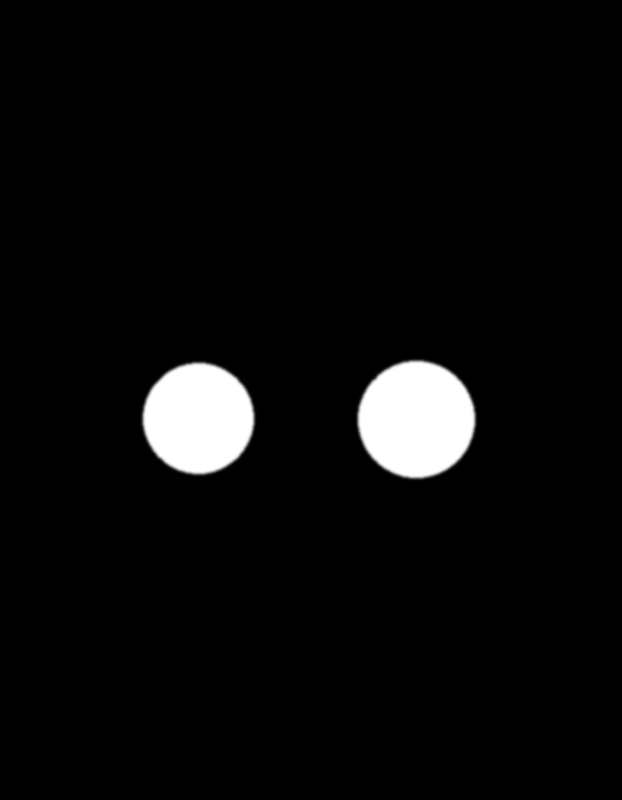
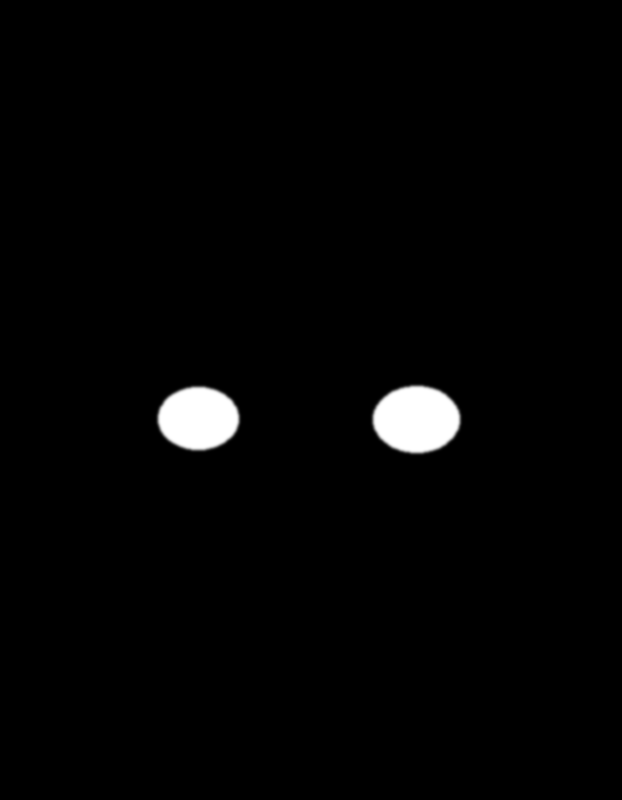
Refined eye detection mask

Changed region(s): [[0.5498, 0.4375, 0.7637, 0.625], [0.2138, 0.4375, 0.4277, 0.5938]]

diff --git a/remove_skin_reflections.py b/remove_skin_reflections.py
@@ -2,9 +2,116 @@ import cv2
 import numpy as np
 from scipy.ndimage import gaussian_filter
 
+def detect_eye_region_precise(image, eye_x, eye_y, eye_w, eye_h):
+    """
+    Precisely detect the actual eye area (iris, pupil, sclera) within a detected eye bounding box.
+    Returns a refined mask for just the eye structure.
+    """
+    # Extract the eye region
+    eye_roi = image[eye_y:eye_y+eye_h, eye_x:eye_x+eye_w]
+    
+    if eye_roi.size == 0:
+        return np.zeros((eye_h, eye_w), dtype=np.uint8)
+    
+    # Convert to grayscale and HSV for analysis
+    eye_gray = cv2.cvtColor(eye_roi, cv2.COLOR_BGR2GRAY)
+    eye_hsv = cv2.cvtColor(eye_roi, cv2.COLOR_BGR2HSV)
+    h, s, v = cv2.split(eye_hsv)
+    
+    # Create refined mask
+    refined_mask = np.zeros((eye_h, eye_w), dtype=np.uint8)
+    
+    # Method 1: Detect dark regions (pupil and iris)
+    # Pupil and iris are typically darker than surrounding skin
+    _, dark_mask = cv2.threshold(eye_gray, 0, 255, cv2.THRESH_BINARY_INV + cv2.THRESH_OTSU)
+    
+    # Method 2: Detect eye whites (sclera) - low saturation, medium-high brightness
+    sclera_mask = ((s < 40) & (v > 100) & (v < 240)).astype(np.uint8) * 255
+    
+    # Method 3: Detect iris region - has some color saturation
+    iris_mask = ((s > 15) & (v > 30) & (v < 200)).astype(np.uint8) * 255
+    
+    # Combine masks: we want dark areas (pupil/iris) OR white areas (sclera)
+    eye_structure = cv2.bitwise_or(dark_mask, sclera_mask)
+    eye_structure = cv2.bitwise_or(eye_structure, iris_mask)
+    
+    # Clean up the mask - remove small noise
+    kernel = cv2.getStructuringElement(cv2.MORPH_ELLIPSE, (3, 3))
+    eye_structure = cv2.morphologyEx(eye_structure, cv2.MORPH_CLOSE, kernel, iterations=2)
+    eye_structure = cv2.morphologyEx(eye_structure, cv2.MORPH_OPEN, kernel, iterations=1)
+    
+    # Find the largest connected component (the actual eye)
+    num_labels, labels, stats, centroids = cv2.connectedComponentsWithStats(eye_structure, connectivity=8)
+    
+    if num_labels > 1:
+        # Get the largest component (excluding background)
+        largest_component = 1 + np.argmax(stats[1:, cv2.CC_STAT_AREA])
+        refined_mask = (labels == largest_component).astype(np.uint8) * 255
+    else:
+        refined_mask = eye_structure
+    
+    # Apply edge detection to find eye boundaries
+    edges = cv2.Canny(eye_gray, 30, 100)
+    
+    # Dilate edges slightly to create boundary
+    edges = cv2.dilate(edges, kernel, iterations=1)
+    
+    # Fill the region inside the edges
+    contours, _ = cv2.findContours(edges, cv2.RETR_EXTERNAL, cv2.CHAIN_APPROX_SIMPLE)
+    
+    if contours:
+        # Find contour that's most likely the eye (centered, reasonable size)
+        eye_center_x, eye_center_y = eye_w // 2, eye_h // 2
+        
+        best_contour = None
+        best_score = float('inf')
+        
+        for contour in contours:
+            area = cv2.contourArea(contour)
+            # Eye should be a reasonable portion of the detection box
+            if area < (eye_w * eye_h * 0.1) or area > (eye_w * eye_h * 0.8):
+                continue
+            
+            # Calculate how centered the contour is
+            M = cv2.moments(contour)
+            if M["m00"] != 0:
+                cx = int(M["m10"] / M["m00"])
+                cy = int(M["m01"] / M["m00"])
+                dist = np.sqrt((cx - eye_center_x)**2 + (cy - eye_center_y)**2)
+                
+                if dist < best_score:
+                    best_score = dist
+                    best_contour = contour
+        
+        if best_contour is not None:
+            # Create mask from best contour
+            contour_mask = np.zeros((eye_h, eye_w), dtype=np.uint8)
+            cv2.drawContours(contour_mask, [best_contour], -1, 255, -1)
+            
+            # Combine with color-based detection
+            refined_mask = cv2.bitwise_or(refined_mask, contour_mask)
+    
+    # Create an almond/eye shape mask as a constraint
+    # Eyes are typically almond-shaped, not circular
+    almond_mask = np.zeros((eye_h, eye_w), dtype=np.uint8)
+    center = (eye_w // 2, eye_h // 2)
+    
+    # Create almond shape (ellipse with narrower width at top and bottom)
+    axes = (int(eye_w * 0.45), int(eye_h * 0.35))
+    cv2.ellipse(almond_mask, center, axes, 0, 0, 360, 255, -1)
+    
+    # Intersect with almond shape to ensure natural eye shape
+    refined_mask = cv2.bitwise_and(refined_mask, almond_mask)
+    
+    # Final smoothing
+    refined_mask = cv2.GaussianBlur(refined_mask, (5, 5), 0)
+    
+    return refined_mask
+
+
 def detect_eyes(image):
     """
-    Detect eyes in the image and return a mask to exclude them.
+    Detect eyes in the image and return a precise mask of actual eye areas.
     Returns a binary mask where eye regions are white (255).
     """
     gray = cv2.cvtColor(image, cv2.COLOR_BGR2GRAY)
@@ -32,14 +139,11 @@ def detect_eyes(image):
             eyes = eye_cascade.detectMultiScale(roi_gray, scaleFactor=1.05, minNeighbors=3, minSize=(20, 20))
             
             for (ex, ey, ew, eh) in eyes:
-                # Add minimal padding around detected eyes
-                padding = int(max(ew, eh) * 0.1)
-                
                 # Calculate absolute coordinates
-                abs_x = roi_x + ex - padding
-                abs_y = roi_y + ey - padding
-                abs_w = ew + 2 * padding
-                abs_h = eh + 2 * padding
+                abs_x = roi_x + ex
+                abs_y = roi_y + ey
+                abs_w = ew
+                abs_h = eh
                 
                 # Ensure within image bounds
                 abs_x = max(0, abs_x)
@@ -47,33 +151,39 @@ def detect_eyes(image):
                 abs_w = min(image.shape[1] - abs_x, abs_w)
                 abs_h = min(image.shape[0] - abs_y, abs_h)
                 
-                # Draw ellipse for more natural eye shape exclusion
-                center = (abs_x + abs_w // 2, abs_y + abs_h // 2)
-                axes = (abs_w // 2, abs_h // 2)
-                cv2.ellipse(eye_mask, center, axes, 0, 0, 360, 255, -1)
+                # Get precise eye mask for this region
+                precise_mask = detect_eye_region_precise(image, abs_x, abs_y, abs_w, abs_h)
+                
+                # Place the precise mask in the full image mask
+                eye_mask[abs_y:abs_y+abs_h, abs_x:abs_x+abs_w] = cv2.bitwise_or(
+                    eye_mask[abs_y:abs_y+abs_h, abs_x:abs_x+abs_w],
+                    precise_mask
+                )
     else:
         # No face detected, try to detect eyes directly in whole image
         eyes = eye_cascade.detectMultiScale(gray, scaleFactor=1.1, minNeighbors=5, minSize=(20, 20))
         
         for (ex, ey, ew, eh) in eyes:
-            # Add minimal padding around detected eyes
-            padding = int(max(ew, eh) * 0.1)
+            # Ensure within bounds
+            ex = max(0, ex)
+            ey = max(0, ey)
+            ew = min(image.shape[1] - ex, ew)
+            eh = min(image.shape[0] - ey, eh)
             
-            ex = max(0, ex - padding)
-            ey = max(0, ey - padding)
-            ew = min(image.shape[1] - ex, ew + 2 * padding)
-            eh = min(image.shape[0] - ey, eh + 2 * padding)
+            # Get precise eye mask for this region
+            precise_mask = detect_eye_region_precise(image, ex, ey, ew, eh)
             
-            # Draw ellipse for more natural eye shape exclusion
-            center = (ex + ew // 2, ey + eh // 2)
-            axes = (ew // 2, eh // 2)
-            cv2.ellipse(eye_mask, center, axes, 0, 0, 360, 255, -1)
+            # Place the precise mask in the full image mask
+            eye_mask[ey:ey+eh, ex:ex+ew] = cv2.bitwise_or(
+                eye_mask[ey:ey+eh, ex:ex+ew],
+                precise_mask
+            )
     
-    # Apply minimal morphological operations to smooth eye mask
+    # Apply minimal smoothing to final mask
     if np.sum(eye_mask) > 0:
         kernel = cv2.getStructuringElement(cv2.MORPH_ELLIPSE, (3, 3))
-        eye_mask = cv2.dilate(eye_mask, kernel, iterations=1)
-        eye_mask = cv2.GaussianBlur(eye_mask, (7, 7), 0)
+        eye_mask = cv2.morphologyEx(eye_mask, cv2.MORPH_CLOSE, kernel, iterations=1)
+        eye_mask = cv2.GaussianBlur(eye_mask, (5, 5), 0)
     
     return eye_mask
 
